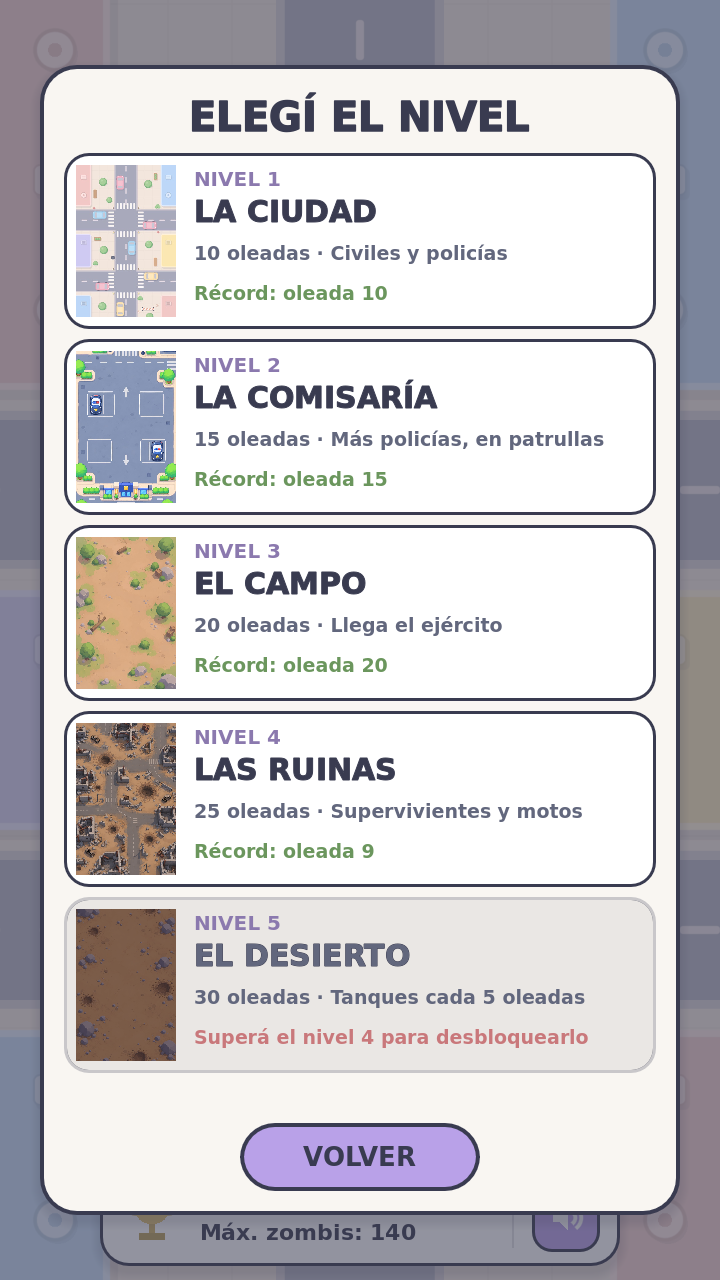
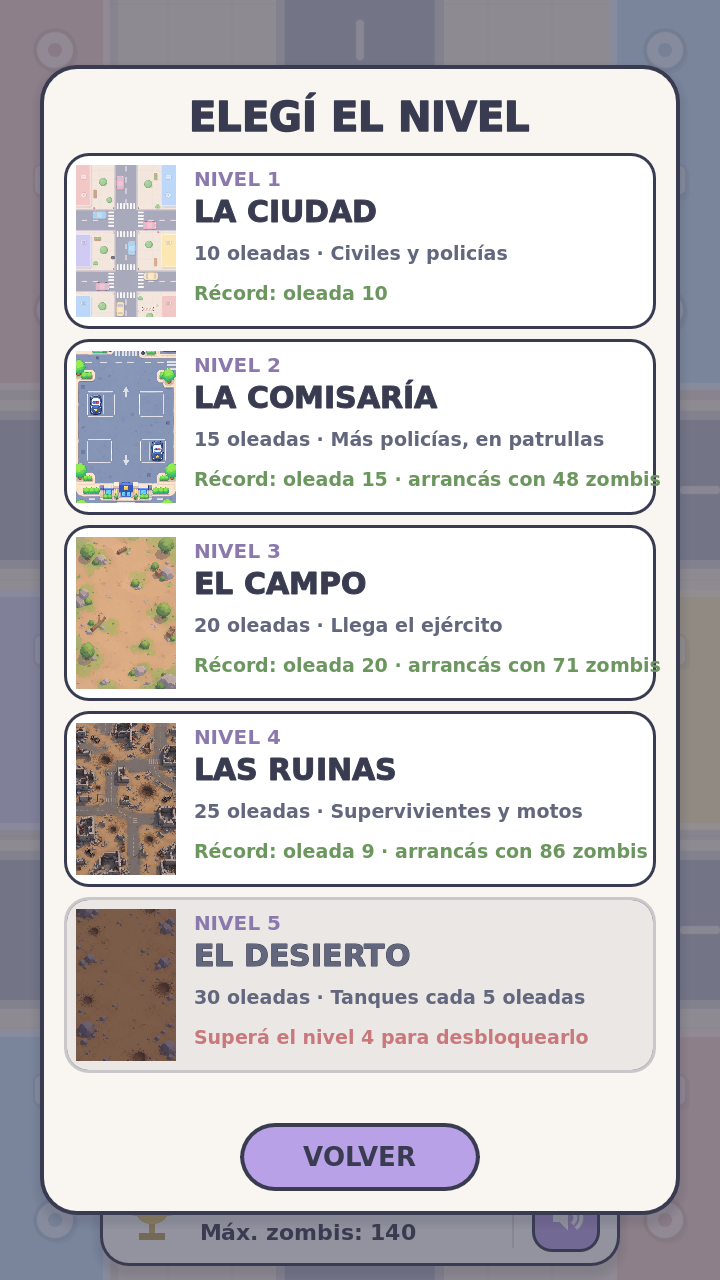
Paciente cero v1.7

diff --git a/README.md b/README.md
@@ -1,7 +1,7 @@
 # PACIENTE CERO
 
 Juego arcade casual para celulares (Android / iOS), en 2D con vista cenital y vertical, hecho en **Godot 4.3+ con GDScript**.
-Arrancás con un solo zombi y contagiás humanos para armar una horda. Hay 5 niveles: **Ciudad** (10 oleadas), **Comisaría** (15), **Campo** (20, con soldados), **Ruinas** (25, supervivientes y motos) y **Desierto** (30, con tanques). Cada nivel arranca de cero y al ganarlo se desbloquea el siguiente.
+Arrancás con un solo zombi y contagiás humanos para armar una horda. Hay 5 niveles: **Ciudad** (10 oleadas), **Comisaría** (15), **Campo** (20, con soldados), **Ruinas** (25, supervivientes y motos) y **Desierto** (30, con tanques). Al ganar un nivel se desbloquea el siguiente y pasás a él con tu horda y tus mejoras.
 
 Los personajes y la ciudad se dibujan con primitivas 2D (`_draw()`, tweens y partículas propias). Los mapas de la comisaría, el campo, las ruinas y el desierto son imágenes (`assets/maps/`). Los sonidos se generan por código al iniciar. No hay dependencias externas y funciona sin internet.
 
@@ -74,6 +74,16 @@ En el celular, apoyás un dedo y arrastrás: el joystick aparece donde tocaste. 
   - Sólo recibe daño con 5 zombis o más mordiéndolo a la vez (las marcas sobre el tanque se pintan de verde) y no puede apuntar a los que tiene pegados: hay que rodearlo.
   - Al destruirlo: +400 puntos y 6 zombis de regalo.
 - Selector de niveles compacto para los 5 mapas.
+
+### v0.5: horda continua y contagio de enemigos ✔
+- Al ganar un nivel, la horda (cantidad de zombis) y las mejoras pasan al siguiente. Queda guardado: si elegís ese nivel desde el menú, arrancás con esa horda.
+- Cada mejora tiene tope de nivel 5 (HORDA no tiene tope).
+- Los enemigos armados se pueden **contagiar**: si cuando caen los rodean suficientes zombis, se suman a la horda. Policía, superviviente y moto: 5 zombis. Soldado: 10. El tanque no se contagia. Al morderlos aparecen marcas sobre su cabeza que se pintan de verde con cada zombi que los rodea.
+- Con una horda grande llegan más enemigos armados (hasta +40 % con 100 zombis), para que los niveles sigan siendo un desafío.
+- Nivel 1 más amable en las últimas oleadas y tanque un poco menos castigador.
+
+### v0.5.1 ✔
+- Comisaría: la zona jugable es sólo el estacionamiento y la calle de arriba. Nadie puede pasar a las veredas de los costados ni a la parte del edificio; los enemigos entran por la calle, por los costados y salen por la puerta de la comisaría.
 
 ### Fuera del MVP a propósito
 La lámina muestra **botón de mordida**, **botón sprint**, **S.W.A.T.** y **barricadas por oleada**. La especificación y la planilla piden explícitamente *no* incluir botones de mordida o sprint, así que no están. S.W.A.T. y barricadas dinámicas quedan como ampliaciones naturales: se agregan como un nuevo `kind` en `Unit` y una entrada en `WAVES`. Tampoco hay música de fondo, sólo efectos.
